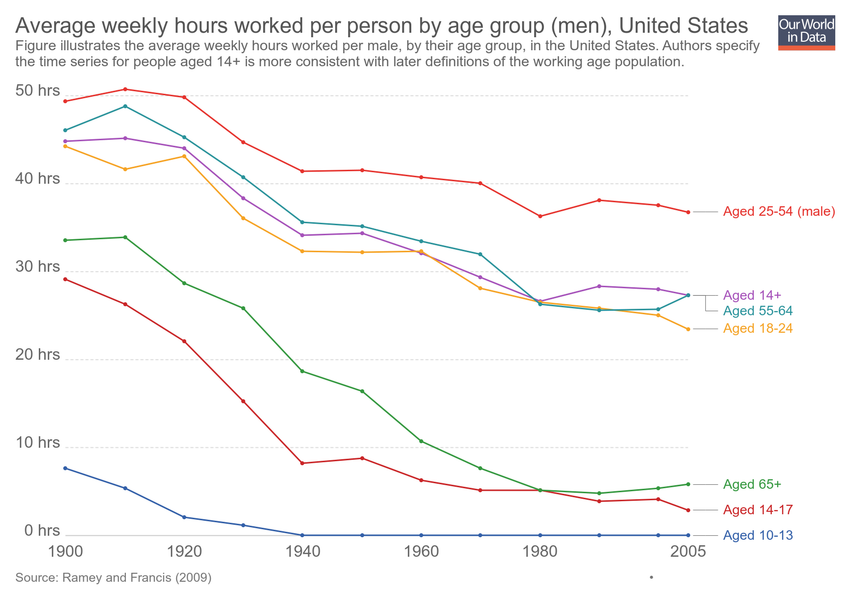
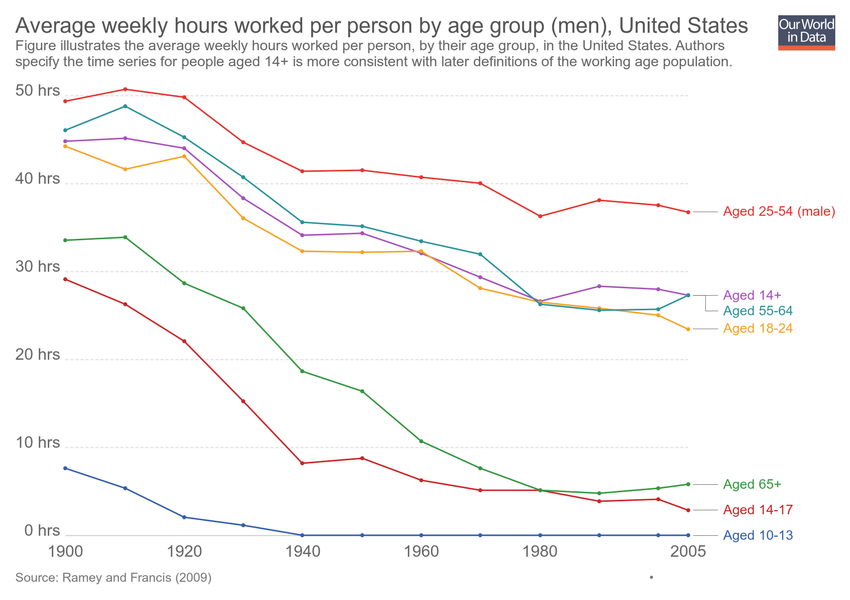
Updating chart average-weekly-hours-worked-per-person-by-age-group-men-united-states

Changed region(s): [[0.0, 0.06, 0.8871, 0.12]]

diff --git a/grapher/average-weekly-hours-worked-per-person-by-age-group-men-united-states.html b/grapher/average-weekly-hours-worked-per-person-by-age-group-men-united-states.html
@@ -1,4 +1,4 @@
-<!doctype html><html><head><meta name="viewport" content="width=device-width, initial-scale=1" /><title>Average weekly hours worked per person by age group (men), United States - Our World in Data</title><meta name="description" content="Figure illustrates the average weekly hours worked per male, by their age group, in the United States. Authors specify the time series for people aged 14+ is more consistent with later definitions of the working age population." /><link rel="canonical" href="https://ourworldindata.org/grapher/average-weekly-hours-worked-per-person-by-age-group-men-united-states" /><meta property="fb:app_id" content="1149943818390250" /><meta property="og:url" content="https://ourworldindata.org/grapher/average-weekly-hours-worked-per-person-by-age-group-men-united-states" /><meta property="og:title" content="Average weekly hours worked per person by age group (men), United States" /><meta property="og:description" content="Figure illustrates the average weekly hours worked per male, by their age group, in the United States. Authors specify the time series for people aged 14+ is more consistent with later definitions of the working age population." /><meta property="og:image" content="https://ourworldindata.org/grapher/exports/average-weekly-hours-worked-per-person-by-age-group-men-united-states.png?v=1" /><meta property="og:image:width" content="850" /><meta property="og:image:height" content="600" /><meta property="og:site_name" content="Our World in Data" /><meta name="twitter:card" content="summary_large_image" /><meta name="twitter:site" content="@OurWorldInData" /><meta name="twitter:creator" content="@OurWorldInData" /><meta name="twitter:title" content="Average weekly hours worked per person by age group (men), United States" /><meta name="twitter:description" content="Figure illustrates the average weekly hours worked per male, by their age group, in the United States. Authors specify the time series for people aged 14+ is more consistent with later definitions of the working age population." /><meta name="twitter:image" content="https://ourworldindata.org/grapher/exports/average-weekly-hours-worked-per-person-by-age-group-men-united-states.png?v=1" /><style>
+<!doctype html><html><head><meta name="viewport" content="width=device-width, initial-scale=1" /><title>Average weekly hours worked per person by age group (men), United States - Our World in Data</title><meta name="description" content="Figure illustrates the average weekly hours worked per person, by their age group, in the United States. Authors specify the time series for people aged 14+ is more consistent with later definitions of the working age population." /><link rel="canonical" href="https://ourworldindata.org/grapher/average-weekly-hours-worked-per-person-by-age-group-men-united-states" /><meta property="fb:app_id" content="1149943818390250" /><meta property="og:url" content="https://ourworldindata.org/grapher/average-weekly-hours-worked-per-person-by-age-group-men-united-states" /><meta property="og:title" content="Average weekly hours worked per person by age group (men), United States" /><meta property="og:description" content="Figure illustrates the average weekly hours worked per person, by their age group, in the United States. Authors specify the time series for people aged 14+ is more consistent with later definitions of the working age population." /><meta property="og:image" content="https://ourworldindata.org/grapher/exports/average-weekly-hours-worked-per-person-by-age-group-men-united-states.png?v=2" /><meta property="og:image:width" content="850" /><meta property="og:image:height" content="600" /><meta property="og:site_name" content="Our World in Data" /><meta name="twitter:card" content="summary_large_image" /><meta name="twitter:site" content="@OurWorldInData" /><meta name="twitter:creator" content="@OurWorldInData" /><meta name="twitter:title" content="Average weekly hours worked per person by age group (men), United States" /><meta name="twitter:description" content="Figure illustrates the average weekly hours worked per person, by their age group, in the United States. Authors specify the time series for people aged 14+ is more consistent with later definitions of the working age population." /><meta name="twitter:image" content="https://ourworldindata.org/grapher/exports/average-weekly-hours-worked-per-person-by-age-group-men-united-states.png?v=2" /><style>
         html, body {
             height: 100%;
             margin: 0;
@@ -20,8 +20,8 @@
         }
     </style><noscript><style>
                     figure { display: none !important; }
-                </style></noscript><link rel="stylesheet" href="https://ourworldindata.org/grapher/assets/commons.bundle.dcbbe53805c487d5e57617b10ac73a8a.css" /><link rel="preload" href="/grapher/data/variables/97523+97522+97524+97525+97526+97527+97528.json?v=1" as="fetch" crossorigin /></head><body class="singleChart"><figure data-grapher-src="/grapher/average-weekly-hours-worked-per-person-by-age-group-men-united-states"></figure><noscript id="fallback"><img src="/grapher/exports/average-weekly-hours-worked-per-person-by-age-group-men-united-states.svg" /><p>Interactive visualization requires JavaScript</p></noscript><script src="https://cdn.polyfill.io/v2/polyfill.min.js?features=es6,fetch"></script><script src="https://ourworldindata.org/grapher/assets/commons.bundle.da523acc49807a06a11f.js"></script><script src="https://ourworldindata.org/grapher/assets/charts.bundle.da523acc49807a06a11f.js"></script><script>
-        var jsonConfig = {"map":{"projection":"World","colorSchemeLabels":[],"colorSchemeValues":[],"customNumericColors":[],"customCategoryColors":{},"customCategoryLabels":{},"customHiddenCategories":{}},"tab":"chart","slug":"average-weekly-hours-worked-per-person-by-age-group-men-united-states","type":"LineChart","title":"Average weekly hours worked per person by age group (men), United States","xAxis":{"scaleType":"linear"},"yAxis":{"min":0,"scaleType":"linear"},"version":1,"subtitle":"Figure illustrates the average weekly hours worked per male, by their age group, in the United States. Authors specify the time series for people aged 14+ is more consistent with later definitions of the working age population.","hasMapTab":false,"stackMode":"absolute","dimensions":[{"display":{"name":"Aged 10-13","unit":"average weekly hours worked per person","shortUnit":"hrs"},"property":"y","variableId":97523},{"display":{"name":"Aged 14+","unit":"average weekly hours worked per person"},"property":"y","variableId":97522},{"display":{"name":"Aged 14-17","unit":"average weekly hours worked per person"},"property":"y","variableId":97524},{"display":{"name":"Aged 18-24","unit":"average weekly hours worked per person"},"property":"y","variableId":97525},{"display":{"name":"Aged 25-54 (male)","unit":"average weekly hours worked per person"},"property":"y","variableId":97526},{"display":{"name":"Aged 55-64","unit":"average weekly hours worked per person"},"property":"y","variableId":97527},{"display":{"name":"Aged 65+","unit":"average weekly hours worked per person"},"property":"y","variableId":97528}],"isAutoSlug":true,"hasChartTab":true,"isPublished":true,"selectedData":[{"index":0,"entityId":13},{"index":1,"entityId":13},{"index":2,"entityId":13},{"index":3,"entityId":13},{"index":4,"entityId":13},{"index":5,"entityId":13},{"index":6,"entityId":13}],"addCountryMode":"add-country","id":2747};
+                </style></noscript><link rel="stylesheet" href="https://ourworldindata.org/grapher/assets/commons.bundle.dcbbe53805c487d5e57617b10ac73a8a.css" /><link rel="preload" href="/grapher/data/variables/97523+97522+97524+97525+97526+97527+97528.json?v=2" as="fetch" crossorigin /></head><body class="singleChart"><figure data-grapher-src="/grapher/average-weekly-hours-worked-per-person-by-age-group-men-united-states"></figure><noscript id="fallback"><img src="/grapher/exports/average-weekly-hours-worked-per-person-by-age-group-men-united-states.svg" /><p>Interactive visualization requires JavaScript</p></noscript><script src="https://cdn.polyfill.io/v2/polyfill.min.js?features=es6,fetch"></script><script src="https://ourworldindata.org/grapher/assets/commons.bundle.da523acc49807a06a11f.js"></script><script src="https://ourworldindata.org/grapher/assets/charts.bundle.da523acc49807a06a11f.js"></script><script>
+        var jsonConfig = {"id":2747,"map":{"projection":"World","colorSchemeLabels":[],"colorSchemeValues":[],"customNumericColors":[],"customCategoryColors":{},"customCategoryLabels":{},"customHiddenCategories":{}},"tab":"chart","slug":"average-weekly-hours-worked-per-person-by-age-group-men-united-states","type":"LineChart","title":"Average weekly hours worked per person by age group (men), United States","xAxis":{"scaleType":"linear"},"yAxis":{"min":0,"scaleType":"linear"},"version":2,"subtitle":"Figure illustrates the average weekly hours worked per person, by their age group, in the United States. Authors specify the time series for people aged 14+ is more consistent with later definitions of the working age population.","hasMapTab":false,"stackMode":"absolute","dimensions":[{"display":{"name":"Aged 10-13","unit":"average weekly hours worked per person","shortUnit":"hrs"},"property":"y","variableId":97523},{"display":{"name":"Aged 14+","unit":"average weekly hours worked per person"},"property":"y","variableId":97522},{"display":{"name":"Aged 14-17","unit":"average weekly hours worked per person"},"property":"y","variableId":97524},{"display":{"name":"Aged 18-24","unit":"average weekly hours worked per person"},"property":"y","variableId":97525},{"display":{"name":"Aged 25-54 (male)","unit":"average weekly hours worked per person"},"property":"y","variableId":97526},{"display":{"name":"Aged 55-64","unit":"average weekly hours worked per person"},"property":"y","variableId":97527},{"display":{"name":"Aged 65+","unit":"average weekly hours worked per person"},"property":"y","variableId":97528}],"hasChartTab":true,"isPublished":true,"selectedData":[{"index":0,"entityId":13},{"index":1,"entityId":13},{"index":2,"entityId":13},{"index":3,"entityId":13},{"index":4,"entityId":13},{"index":5,"entityId":13},{"index":6,"entityId":13}],"addCountryMode":"add-country"};
         var figure = document.getElementsByTagName("figure")[0];
         try {
             window.App = {};
